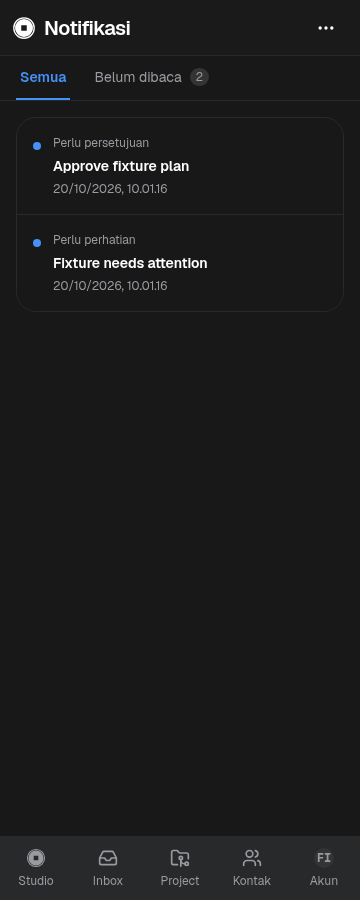
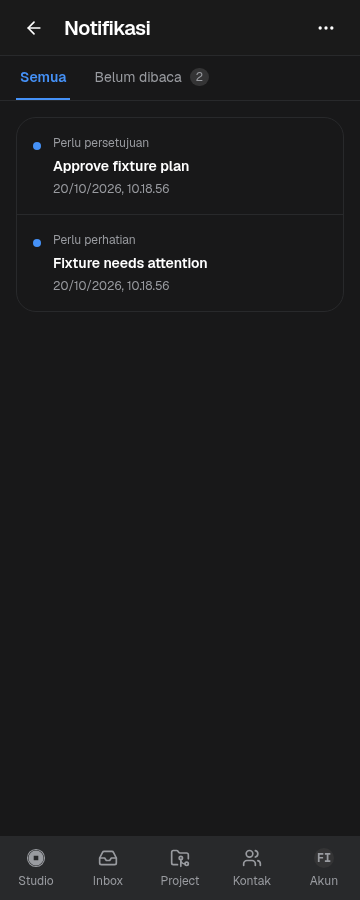
fix: return from notifications to the originating page

diff --git a/web/src/components/layout/AppShell.tsx b/web/src/components/layout/AppShell.tsx
@@ -1,6 +1,6 @@
-import { useNavigate } from 'react-router-dom'
+import { useLocation, useNavigate } from 'react-router-dom'
 import { useNotifications } from '../../context/NotificationsContext'
-import { Bell } from 'lucide-react'
+import { ArrowLeft, Bell } from 'lucide-react'
 import { useLanguage } from '../../context/LanguageContext'
 import { useEffect, useRef, useState, type ComponentType } from 'react'
 import { Link } from 'react-router-dom'
@@ -60,6 +60,7 @@ export function AppShell({
   const { t } = useLanguage()
 
   const routerNavigate = useNavigate()
+  const location = useLocation()
   const { items: notifications } = useNotifications()
   const unreadNotifications = notifications.filter((n) => !n.read).length
   const shell = useRef<HTMLDivElement>(null)
@@ -203,7 +204,29 @@ export function AppShell({
           )}
         >
           <div className="flex min-w-0 items-center gap-2">
-            <CuanMark className="h-6 w-6 md:hidden" />
+            {currentTab === 'notifications' ? (
+              <button
+                type="button"
+                className="icon-action shrink-0"
+                aria-label={t('Back')}
+                onClick={() => {
+                  const from = location.state?.notificationReturnTo
+                  if (
+                    typeof from === 'string' &&
+                    from.startsWith('/') &&
+                    !from.startsWith('//') &&
+                    !from.split(/[?#]/)[0].startsWith('/notifications')
+                  ) {
+                    if (window.history.state?.idx > 0) routerNavigate(-1)
+                    else routerNavigate(from, { replace: true })
+                  } else routerNavigate('/studio', { replace: true })
+                }}
+              >
+                <ArrowLeft className="h-5 w-5" />
+              </button>
+            ) : (
+              <CuanMark className="h-6 w-6 md:hidden" />
+            )}
             {breadcrumbs.length > 0 && (
               <nav
                 aria-label={t('Breadcrumbs')}
@@ -236,7 +259,14 @@ export function AppShell({
                 type="button"
                 className={cn('icon-action relative')}
                 aria-label={t('Notifications')}
-                onClick={() => routerNavigate('/notifications')}
+                onClick={() =>
+                  routerNavigate('/notifications', {
+                    state: {
+                      notificationReturnTo:
+                        location.pathname + location.search + location.hash,
+                    },
+                  })
+                }
               >
                 <Bell className="h-5 w-5" />
                 {unreadNotifications > 0 && (

diff --git a/web/src/features/notifications/NotificationsView.tsx b/web/src/features/notifications/NotificationsView.tsx
@@ -128,6 +128,8 @@ export function NotificationsNavigation() {
         <Link
           key={item.id}
           to={item.to}
+          state={location.state}
+          replace
           aria-current={filter === item.id ? 'page' : undefined}
           className={
             'inline-flex min-h-11 items-center gap-2 border-b-2 px-1 text-sm focus-visible:outline focus-visible:outline-2 focus-visible:outline-ring ' +

diff --git a/docs/evidence/notification-navigation/README.md b/docs/evidence/notification-navigation/README.md
@@ -5,3 +5,5 @@ Notifications now has a dedicated secondary navigation directly below the shared
 Production TypeScript/Vite build passed. Targeted browser fixture passed at 360/390/820/1440px, light/dark, plus Indonesian mobile: first list row within160px of the viewport top,44px secondary navigation and menu targets, unread count/filter persistence, menu keyboard arrows/Home/End/Escape, focus return, outside close, failed mark-read preserving unread state, successful mark-all clearing counts, disabled action at zero unread, settings navigation and no horizontal overflow. No provider or production writes in fixtures.
 
 Production release a013833 passed authenticated browser checks and exact asset verification. Live notification read state was preserved. Readiness remained healthy on schema23; 35 application tables and 722 profile files matched the private pre-release backup.
+
+The header now includes Back on Notifications. Opening the bell preserves the originating path, query and hash; filter changes replace history and preserve that origin across reload. Back returns through history when possible, with Studio as the direct-link fallback. Targeted desktop/mobile checks cover this flow.
